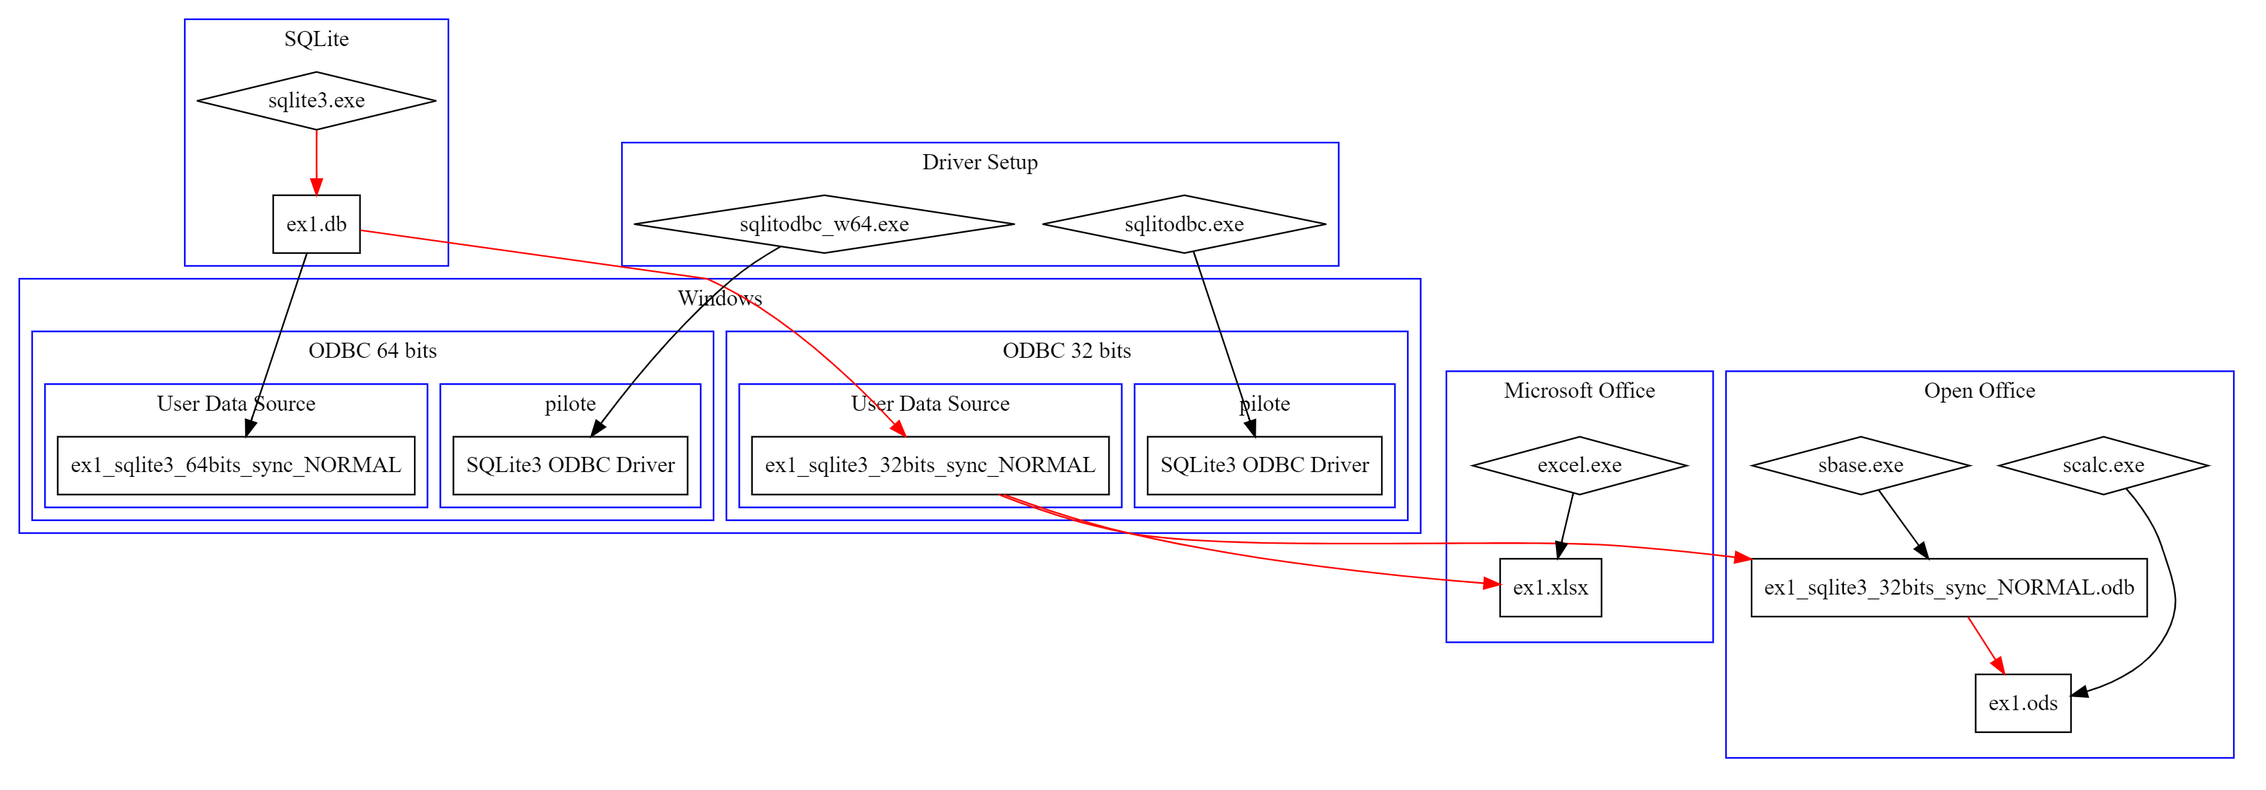
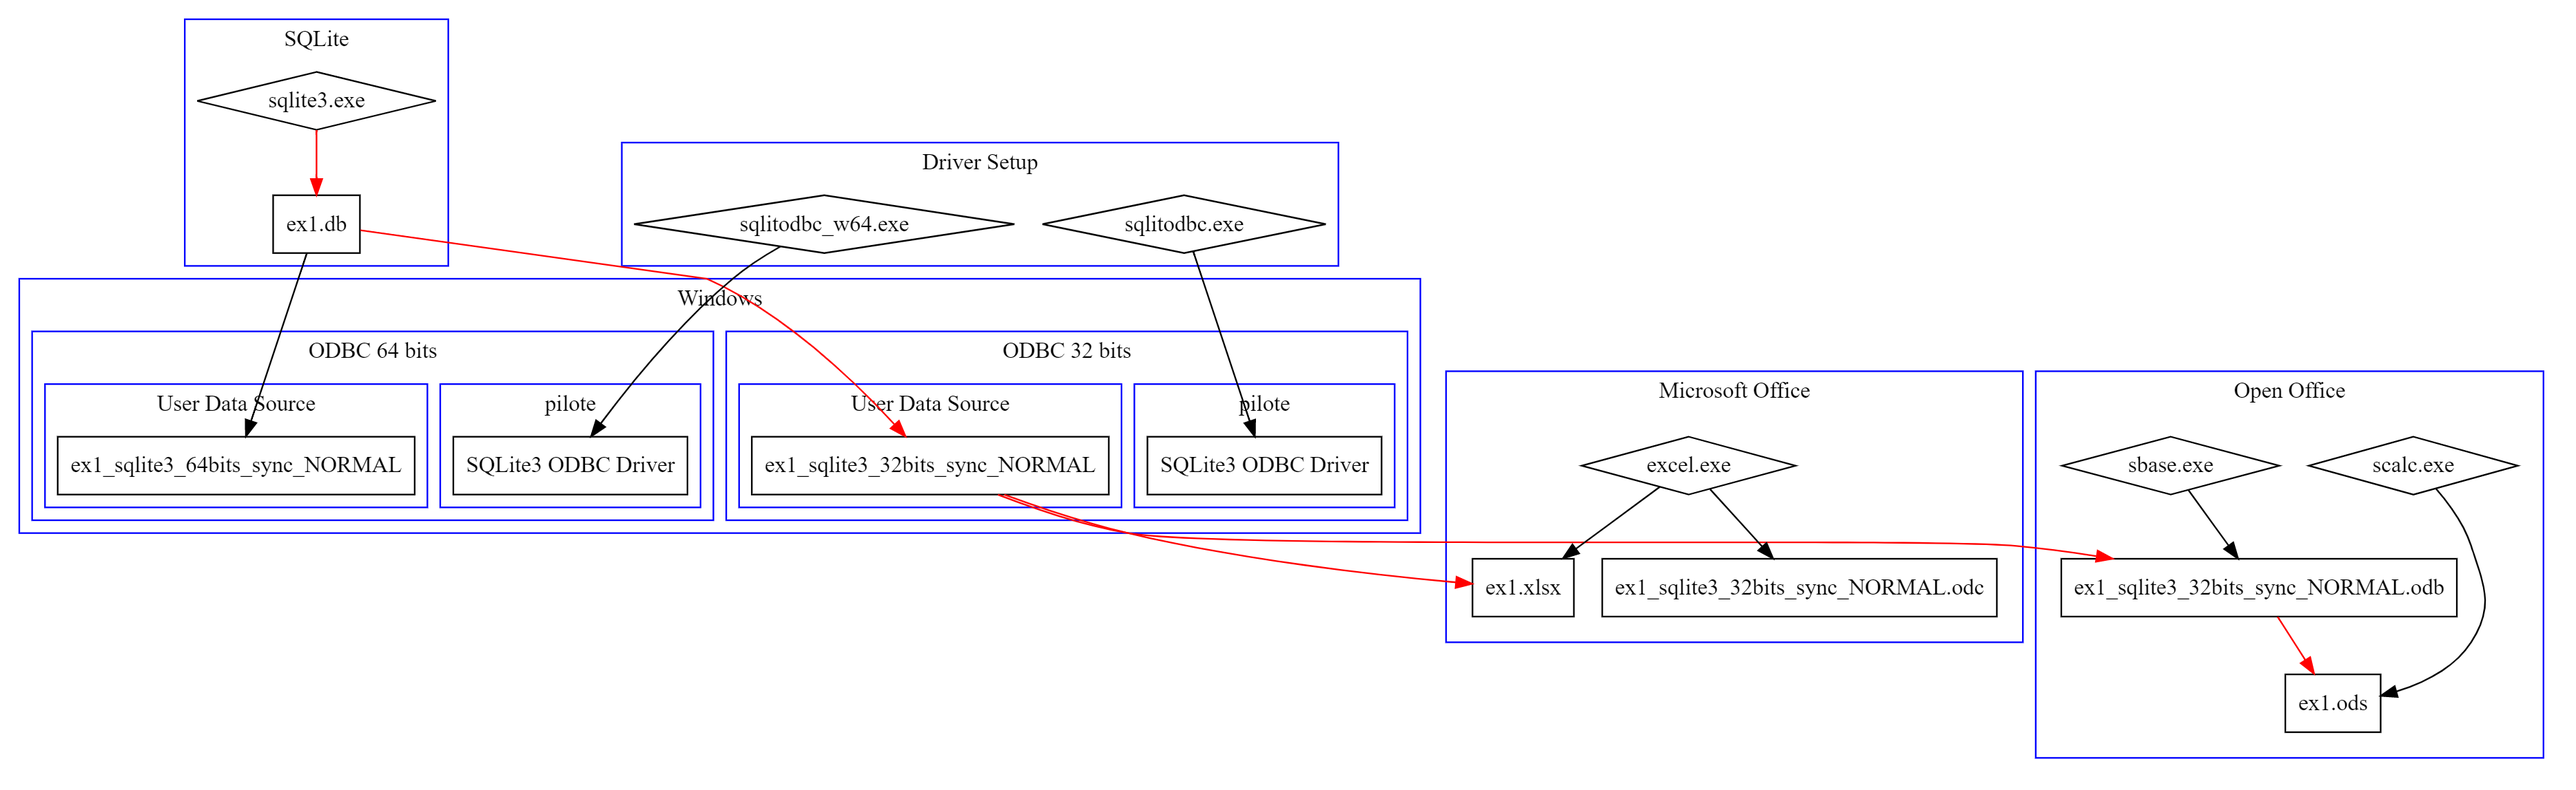
update

diff --git a/doc_html/microsoft_office/microsoft_office_fr.html b/doc_html/microsoft_office/microsoft_office_fr.html
@@ -34,6 +34,17 @@
                     </li>
                 </ol>
             </li>
+
+            <li>
+                Pour exporter la connexion :
+                <ol>
+                    <li>Aller dans Data->Queries & Connections<br><br><img src=".\img\6_1__microsoft_office__Queries_and_Connections__Ouvrir.png"><br><br></li>
+                    <li>Cliquer droit sur la table "USER".</li>
+                    <li>Cliquer sur "Export Connection File...<br><br><img src=".\img\6_3__microsoft_office__Queries_and_Connections__Export.png"><br><br></li>
+                    <li>Enregistrer sous <tt>C:\sqlite_odbc_sample\scripts\microsoft_office\ex1.odc<br><br><img src=".\img\6_4__microsoft_office__Queries_and_Connections__Enregistrer_Sous.png"><br><br></tt>
+                </ol>                
+            </li>
+            
             
             <li>
                 Comment actualiser ?
